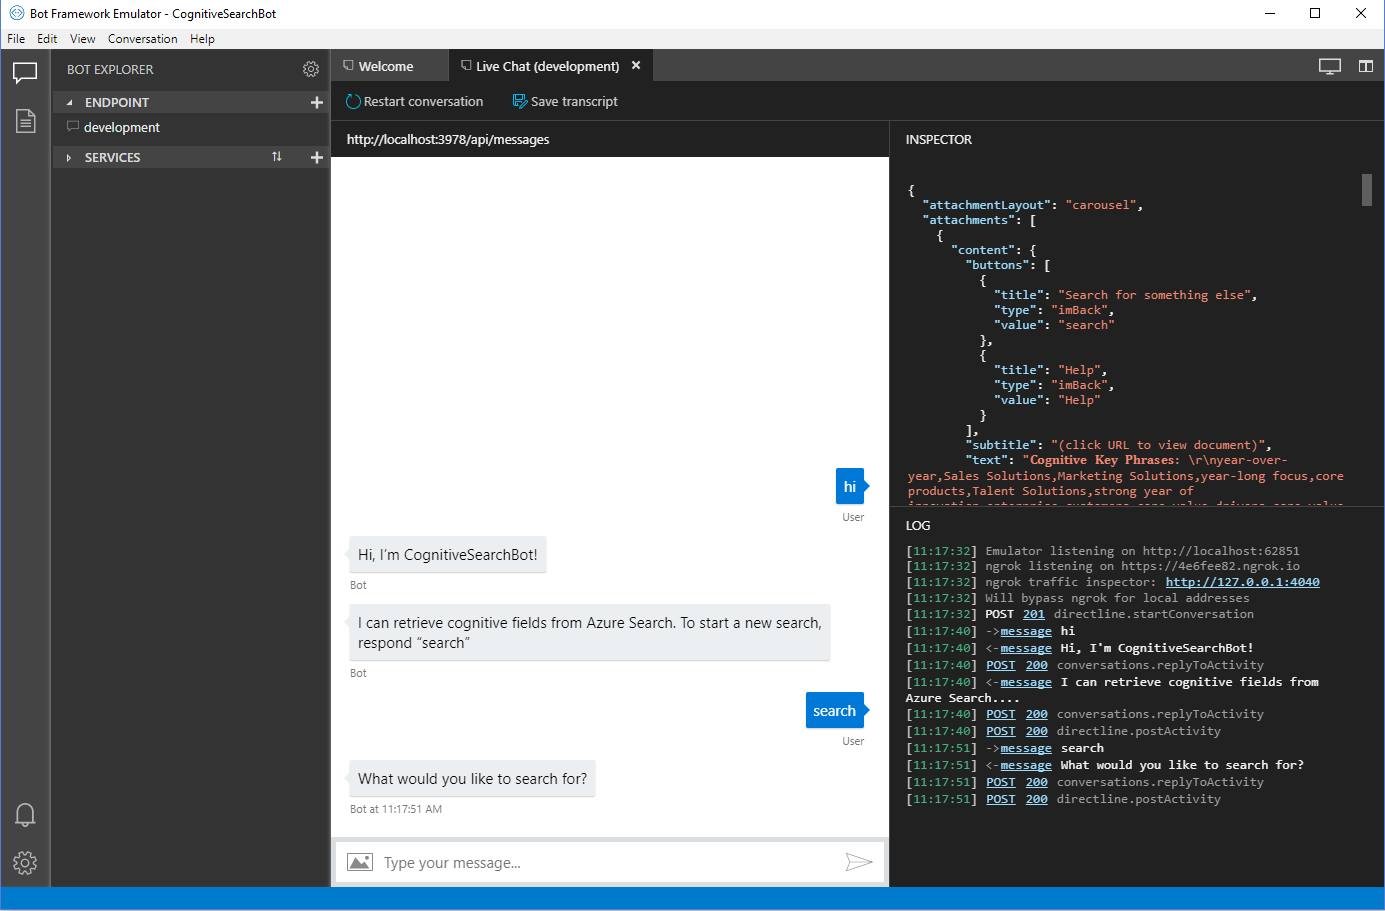
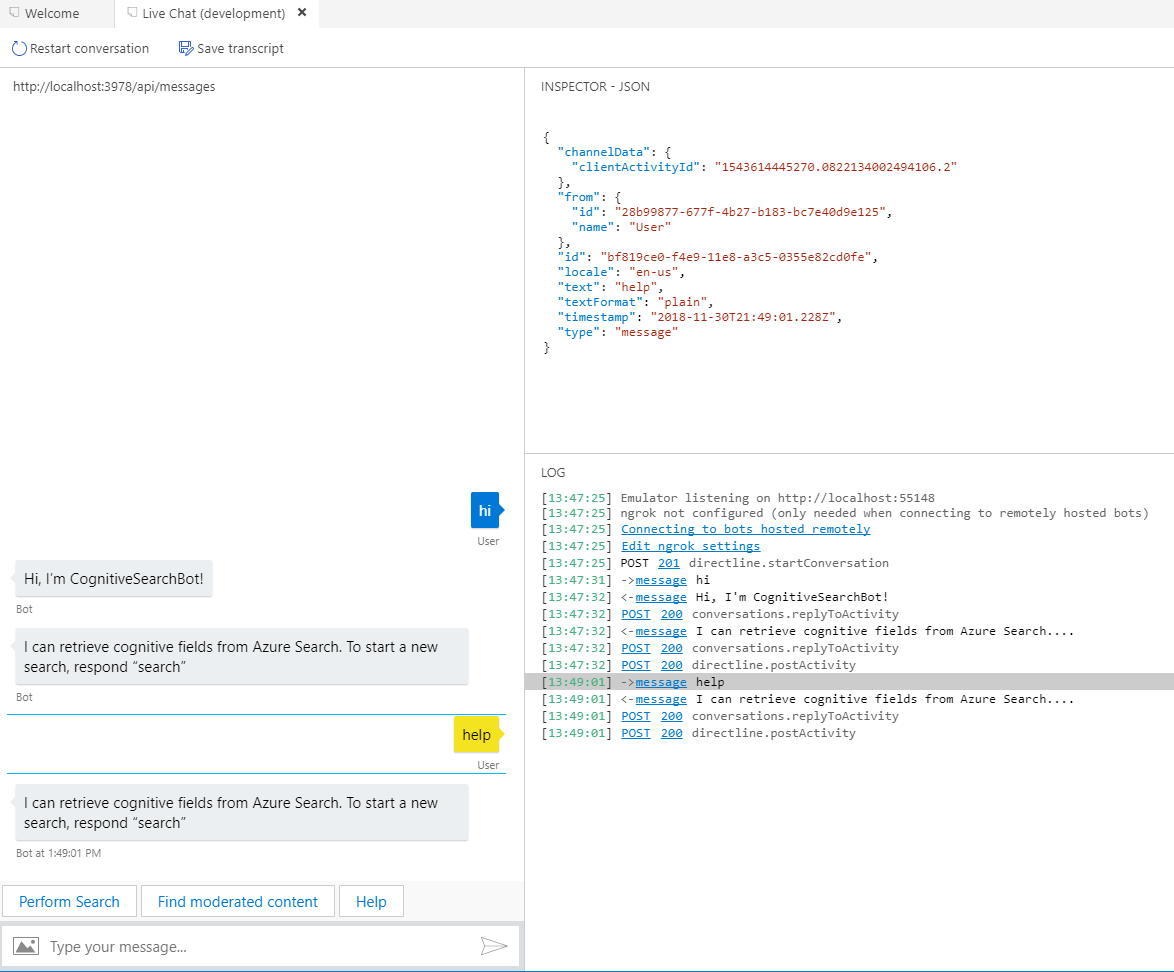
fim2

diff --git a/labs/lab-bot-business-documents.md b/labs/lab-bot-business-documents.md
@@ -57,7 +57,7 @@ Right-click on the solution and select "Manage NuGet Packages for Solution...". 
 
 Search for the BFV4 components mentioned above. Some of them are easy do find, the solution folders organize the code.
 
-Open "SearchDialogBase.cs" by double-clicking on it in the Solution Explorer, it is in the Dialogs folder on the Solution Explorer. While there are lots of files in this solution, this is one of the most relevant. It does the integration with your search service. Spend at least five minutes reading the file **from start to finish**. We've commented what's happening on almost every line, so it is hopefully easy to follow, even if you don't have a background with bots. This code shows you how to interact with the Search service using C# and the Azure Search SDK.
+Open **SearchDialogBase.cs** by double-clicking on it in the Solution Explorer, it is in the Dialogs folder on the Solution Explorer. While there are lots of files in this solution, this is one of the most relevant. It does the integration with your search service. Spend at least five minutes reading the file **from start to finish**. We've commented what's happening on almost every line, so it is hopefully easy to follow, even if you don't have a background with bots. This code shows you how to interact with the Search service using C# and the Azure Search SDK.
 
 Near the bottom of the Solution Explorer menu, you will see the Constants.cs file. Open it with a double click. You'll notice that you need to fill in your search service name, search service key, and index name. Since you've created and tested the index in Postman, you should have these readily available. If not, you can open the Azure portal and locate your Azure Search service to get the needed information. Fill in your information and save the file (you can use `CTRL` + `S`).
 
@@ -69,11 +69,11 @@ In Visual Studio, select the green button (looks like a play button) in the top 
 
 Open the Bot Emulator if it is not open already. Select the button "Open Bot" from the Welcome page. Navigate to where your "BotConfiguration.bot" file is located (should be under **resources > code-bot** if you followed the previous instructions).  
 
-This should open a chat window with your bot. You can start by saying some sort of greeting ("hi", "hello", "whats up bot", etc.). The bot should respond with a greeting, followed by the help message that says what it can do. Since really all it can do is search, enter "search" to trigger the search dialog.
+This should open a chat window with your bot. You can start by saying some sort of greeting ("hi", "hello", "whats up bot", etc.). The bot should respond with a greeting, followed by the help message that says what it can do. Since really all it can do is search, enter "search" to trigger the search dialog. There is also a menu to avoid typing, it comes up right after the greeting. You can also ask for help, but the answer will be the same you had before.
 
 ![Greet Bot](../resources/images/lab-bot/emulator-running.png)
 
-You should now be able to submit search requests, and your results should be returned. Try searching for various items and inspecting your results. If you're unsure what to search for, here are a few suggestions: "satya nadella", "financial reporting", "security issues", "Azure", "cognitive services", "cloud", "sql server", "learnai", "reports".
+You should now be able to submit search requests, and your results should be returned. Try searching for various items and inspecting your results. If you're unsure what to search for, here are a few suggestions: "satya nadella", "financial reporting", "security issues", "Azure", "cognitive services", "cloud", "sql server", "learnai", "reports". Try to search using both the menu button and typing search + enter + the term you want to search for.
 
 ## Step 4 (optional) - Using break points to understand the search flow
 
@@ -81,19 +81,15 @@ If you want to dive slightly deeper into calling the Azure Cognitive Search API 
 
 First, stop your bot (by hitting the stop button in Visual Studio).  
 
-Open the "CognitiveSearchBot.cs" file. First, note that on lines 13 and 14, you are referencing the Azure Search NuGet package that was installed. Remember, this is crucial to running the commands you are about to step through.  
+Open the **SearchDialog.cs** file. First, note that on line 3 there is a reference for CognitiveSearchBot, that is using the Azure Search SDK (file **SearchDialogBase.cs**). Remember, this is crucial to running the commands you are about to step through.  
 
-Next, scroll down to where the search related tasks are located. Place a break point on lines 228 and 234 (on the lines `DocumentSearchResult results = await indexClientForQueries.Documents.SearchAsync(searchText);` and `IMessageActivity activity = context.Activity.CreateReply();`) by clicking in the grey area left of the numbers. You should see a red dot next to the break point lines, as shown below:  
+Next, scroll down to where the search related tasks are located. Place a break point on line 59, where there is the command `await ExecuteSearchAsync(stepContext.Context, searchText);`, by clicking in the grey area left of the numbers. You should see a red dot next to the break point lines, as shown below:  
 
 ![Set break points](../resources/images/lab-bot/setbreak.png)
 
-Next, run the bot (select `F5`) and (after sending "hi" then "search") search for something. Visual Studio will likely start blinking requesting your return. In Visual Studio, you should see the line about to be executed highlighted. Select `F11` repeatedly to step through what is happening as the search is processed. In the bottom box within Visual Studio, you should see "Locals". These values can be expanded and inspected. For example, when you see "hit" in "Locals", you can expand it to see the results from the API call for a single search hit.
+Next, run the bot (select `F5`) and on the Bot Emulator, search for something. Anything works. Visual Studio will likely start blinking requesting your return. In Visual Studio, you should see the line about to be executed highlighted. Select `F11` repeatedly to step through what is happening as the search is processed. In the bottom box within Visual Studio, you should see "Locals". These values can be expanded and inspected. For example, when you should be able to see the search you just did.
 
 ![Examine hit locals](../resources/images/lab-bot/locals.png)
-
-Similarly, when "results" has been filled, you can see how many "hits" there are and expand those details as well.
-
-![Examine results locals](../resources/images/lab-bot/locals2.png)
 
 Using break points for debugging and seeing how calls are made and processed is a very valuable tool. If you'd like to learn more, [start here](https://docs.microsoft.com/en-us/visualstudio/debugger/getting-started-with-the-debugger?view=vs-2017).  
 

diff --git a/labs/lab-final-case.md b/labs/lab-final-case.md
@@ -6,7 +6,7 @@
 
 ## Complex Scenarios
 
-The diagrams below describe from simple to complex scenarios of Cognitive Search.
+Now you are very familiar to 1x1x1x1 scenarios: one dataset, one index, one skillset and one indexer. The diagrams below describe this situation but also complex scenarios of Cognitive Search.
 
 ![Simple Scenario](../resources/images/lab-final-case/simple.png)
 ![Complex Scenario 1](../resources/images/lab-final-case/complex1.png)
@@ -31,6 +31,10 @@ Using what you've learned throughout the course, develop a potential Cognitive S
 1. List of the predefined and custom skills
 1. The skills sequence and how they are integrated
 1. The necessary Azure Search tier for this solution
+
+## Cleaning your environment - Again
+
+You have completed all of the hands-on portions of the course. We recommend deleting the resource group (and all of the resources in it) to avoid incurring extra charges.
 
 ## Next Step
 

diff --git a/resources/instructor-notes/README.md b/resources/instructor-notes/README.md
@@ -17,14 +17,16 @@ Use the KMB-Opening.pptx presentation to:
 1. Spektra Instructions
 1. Github link - <http://aka.ms/kmb>
 1. Survey URL
+1. Talk about environment cleaning, to avoid costs.
 
 While the introduction has a pdf version, this one won't have one. The idea is to keep on editing this presentation for each delivery.
 
-## Azure Functions Code
+## Custom Skills LAB
 
-Important to comment:
+Important to comment in the Azure Functions Code:
 
 1. language: eng (Content Moderator) x en (Azure Search)
+1. For now, language is not dynamic (not using the document extracted language). So, we are not moderating spanish docs very well.
 1. 1024 limit
 1. host x region. Without and with https
 1. Complex types explanation: why we are transforming in boolean
